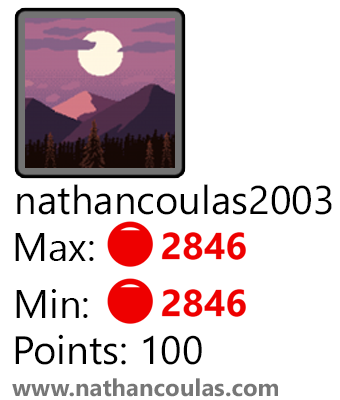
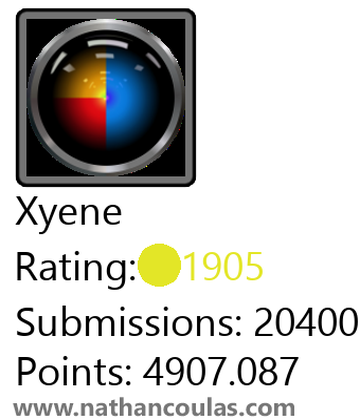
finished

diff --git a/portfolio/blog/templates/blog/dmojprofilemaker.html b/portfolio/blog/templates/blog/dmojprofilemaker.html
@@ -16,10 +16,11 @@
     <div style="margin-top: 12%;">
     <h1 align="center"> DMOJ Profile Card Maker</h1>
     
-    <form>
-    <div align="center" class="" action="submit" method="post">
+    <form action="/execute/" method="post">
+        {% csrf_token %}
+    <div align="center" class="">
         <div class="col-sm-7">
-          <input type="username" class="form-control form-control-lg" id="colFormLabelLg" placeholder="Xyene....">
+          <input type="username" name="info" class="form-control form-control-lg" id="colFormLabelLg" placeholder="Xyene....">
           <p style="color: rgb(212, 212, 212);"> <i>psst</i>, type in your username!</p>
     </div>
     </div>

diff --git a/portfolio/blog/views.py b/portfolio/blog/views.py
@@ -2,7 +2,8 @@ from django.shortcuts import render
 from django.http import HttpResponse
 from .models import Project
 from .models import Profile
-
+from subprocess import run, PIPE
+import sys
 
 # Create your views here.
 def home(request):
@@ -23,7 +24,8 @@ def dmoj(request):
     }
     return render(request, 'blog/dmojprofilemaker.html', context)
 
-def submit(request):
-    info=request.POST['info']
-    print("LOLOOLOLOL")
-    # do something with info
+def execute(request):
+    info=request.POST.get("info")
+    out= run([sys.executable, 'C:/Users/Nathan/Desktop/port/portfoliosite/portfolio/main.py', info], shell = False, stdout=PIPE)
+    print(out)
+    return dmoj(request)

diff --git a/portfolio/main.py b/portfolio/main.py
@@ -87,8 +87,7 @@ draw.text((170, 173 + row * 1), str(DATA_RATING), textColor(DATA_RATING), font=f
 draw.text((14, 173 + row * 2), "Submissions: " + str(DATA_MIN_RATING), (0, 0, 0), font=font) 
 draw.text((14, 167 + row * 3), "Points: " + str(DATA_POINTS)[:8], (0, 0, 0), font=font) 
 draw.ellipse((130, 232, 170, 272), fill = textColor(DATA_RATING))#outline = textColor(DATA_RATING))
-
 img = img.resize((360, 420), Image.ANTIALIAS)
 
-path = "media/img_l5oCH4I.png"
+path = "media/img_JJeyJCW.png"
 img.save(path)

diff --git a/portfolio/blog/urls.py b/portfolio/blog/urls.py
@@ -9,7 +9,7 @@ urlpatterns = [
     path('projects/', views.projects),
     path('resume/', views.resume),
     path('dmojprofilemaker/', views.dmoj),
-    path('submit', views.submit)
+    path('execute/', views.execute)
 ]
 
 urlpatterns += staticfiles_urlpatterns()
